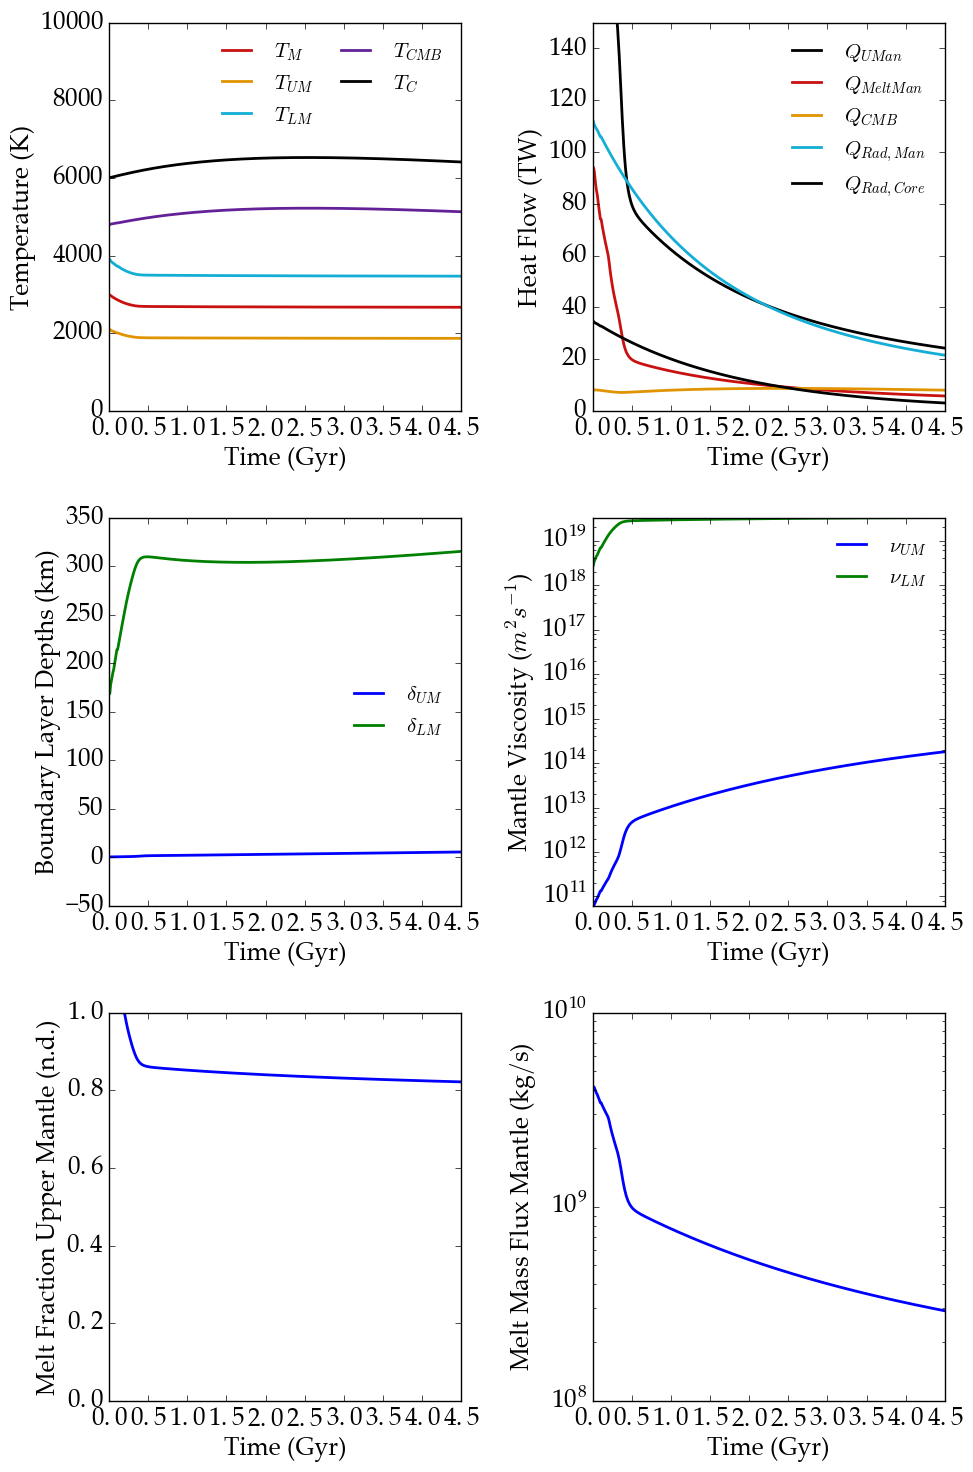
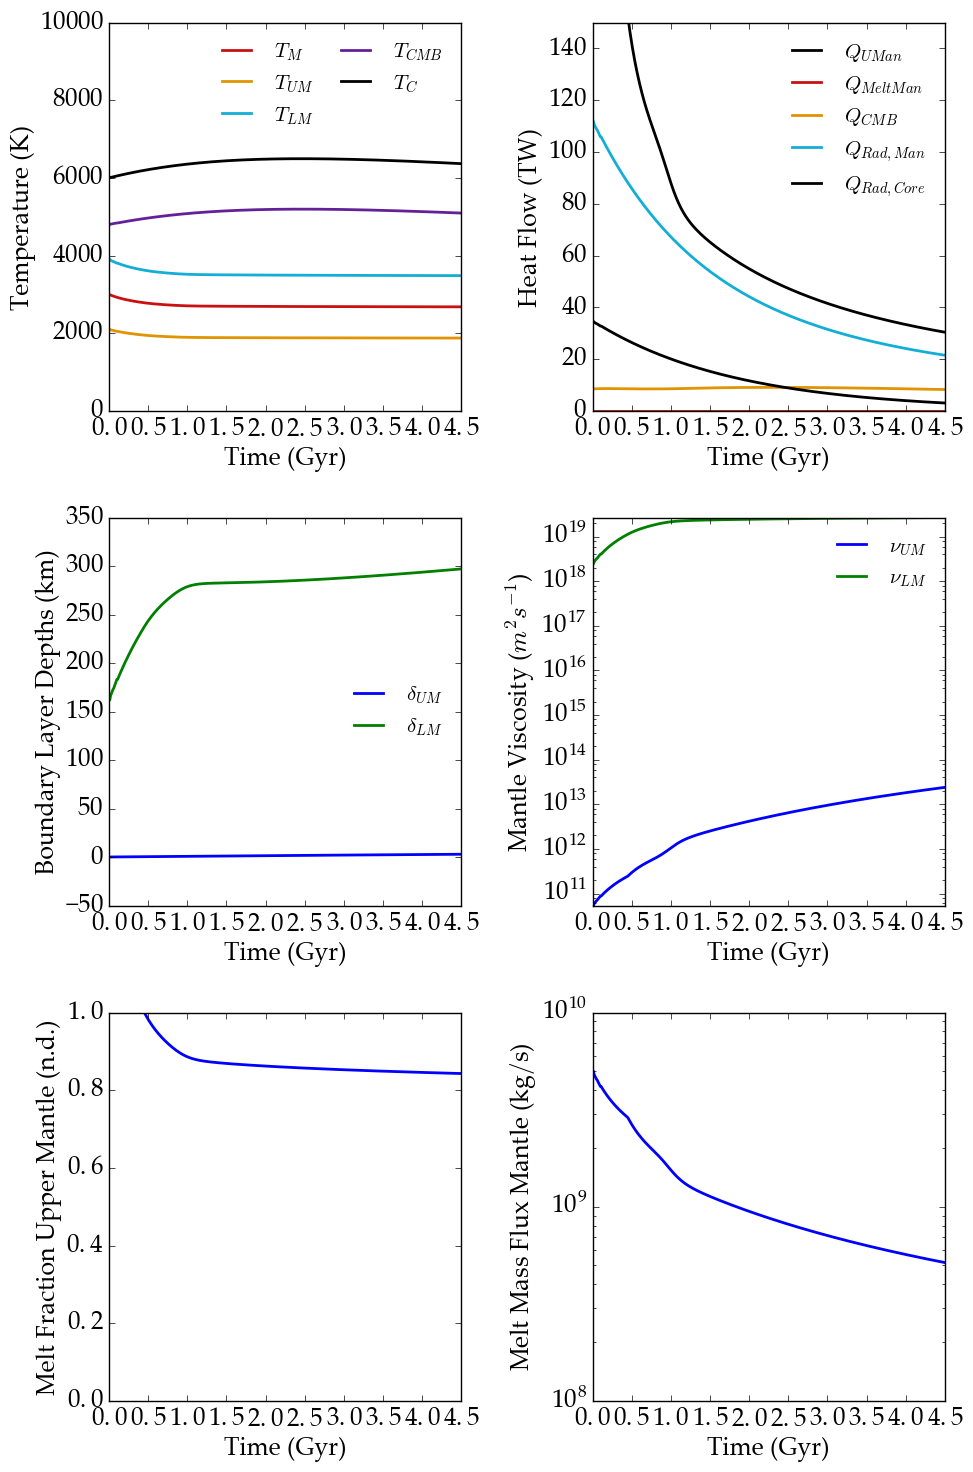
Corrected tests/VenusInterior to reflect latest example

diff --git a/tests/VenusInterior/test_VenusInterior.py b/tests/VenusInterior/test_VenusInterior.py
@@ -16,11 +16,11 @@ def test_VenusInterior():
     output = GetOutput(path=cwd)
 
     # Check
-    assert np.isclose(output.log.final.venus.TMan, 2668.711843)
-    assert np.isclose(output.log.final.venus.TCore, 6402.530889)
+    assert np.isclose(output.log.final.venus.TMan, 2679.27122)
+    assert np.isclose(output.log.final.venus.TCore, 6365.71258)
     assert np.isclose(output.log.final.venus.RIC, 0.0)
-    assert np.isclose(output.log.final.venus.RadPowerTotal, 31417390000000.0)
-    assert np.isclose(output.log.final.venus.BLUMan, 5.579136)
+    assert np.isclose(output.log.final.venus.RadPowerTotal, 31.49126)
+    assert np.isclose(output.log.final.venus.MagMom, 0.0)
 
 
 if __name__ == "__main__":
